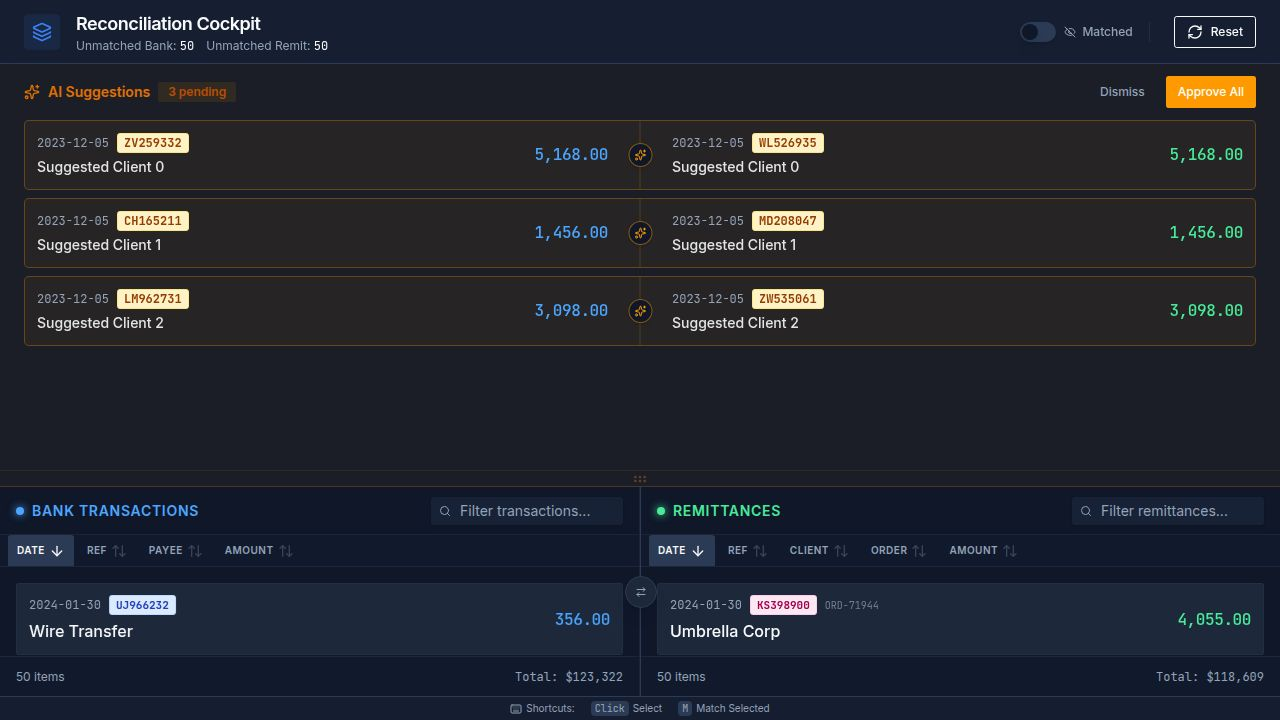
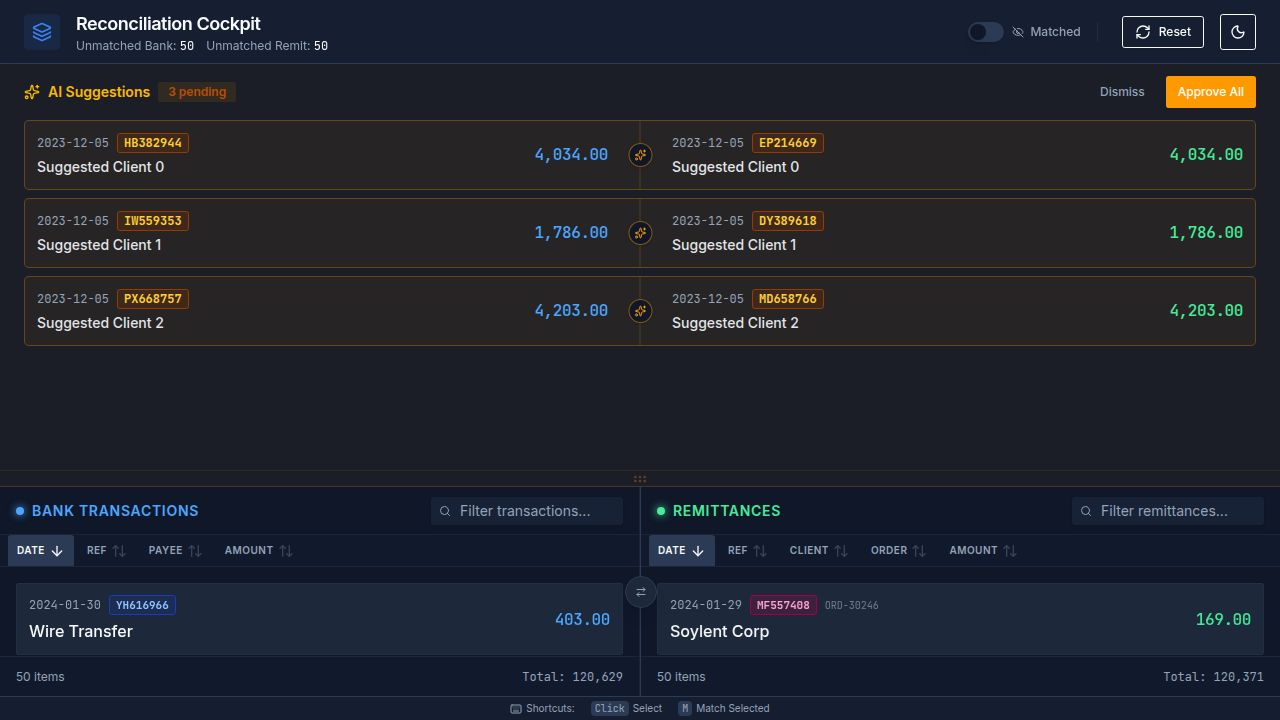
Add a theme toggle for switching between dark and light modes
Implement a ThemeProvider component to manage theme state, add a theme toggle button to the reconciliation page, and integrate theme switching functionality into the application.

Replit-Commit-Author: Agent
Replit-Commit-Session-Id: 44a04f64-e181-4394-bb19-a8a4b0096205
Replit-Commit-Checkpoint-Type: full_checkpoint
Replit-Commit-Event-Id: ad422c9d-6f79-45ca-961a-2f67ec774dfd
Replit-Commit-Screenshot-Url: https://storage.googleapis.com/screenshot-production-us-central1/7907d9d1-9fe0-46c0-b82b-14bfc55603c3/44a04f64-e181-4394-bb19-a8a4b0096205/SThMGMt
Replit-Helium-Checkpoint-Created: true

diff --git a/client/src/pages/reconciliation.tsx b/client/src/pages/reconciliation.tsx
@@ -1,6 +1,6 @@
 import React, { useState, useMemo, useEffect, useCallback } from 'react';
 import { motion, AnimatePresence } from 'framer-motion';
-import { Search, ArrowRightLeft, X, RefreshCw, Layers, Keyboard, Eye, EyeOff, CheckCircle2, ArrowUpDown, ArrowUp, ArrowDown, Sparkles, Check, ThumbsUp, ThumbsDown, XCircle, History, GripHorizontal } from 'lucide-react';
+import { Search, ArrowRightLeft, X, RefreshCw, Layers, Keyboard, Eye, EyeOff, CheckCircle2, ArrowUpDown, ArrowUp, ArrowDown, Sparkles, Check, ThumbsUp, ThumbsDown, XCircle, History, GripHorizontal, Moon, Sun } from 'lucide-react';
 import { generateMockData, BankTransaction, Remittance } from '../lib/mockData';
 import { cn } from '@/lib/utils';
 import { Button } from '@/components/ui/button';
@@ -10,6 +10,7 @@ import { Switch } from '@/components/ui/switch';
 import { Label } from '@/components/ui/label';
 import { Tooltip, TooltipContent, TooltipProvider, TooltipTrigger } from '@/components/ui/tooltip';
 import { DropdownMenu, DropdownMenuContent, DropdownMenuItem, DropdownMenuTrigger } from '@/components/ui/dropdown-menu';
+import { useTheme } from "@/components/theme-provider";
 
 // --- Types ---
 
@@ -343,6 +344,7 @@ const RemittanceRow = ({
 // --- Main Page ---
 
 export default function ReconciliationPage() {
+  const { theme, setTheme } = useTheme();
   const [bankTransactions, setBankTransactions] = useState<BankTransaction[]>([]);
   const [remittances, setRemittances] = useState<Remittance[]>([]);
   
@@ -654,6 +656,17 @@ export default function ReconciliationPage() {
              <Button variant="outline" size="sm" className="gap-2" onClick={() => window.location.reload()}>
                 <RefreshCw className="w-3 h-3" />
                 Reset
+             </Button>
+
+             <Button 
+                variant="outline" 
+                size="icon" 
+                className="h-9 w-9"
+                onClick={() => setTheme(theme === "dark" ? "light" : "dark")}
+             >
+                <Sun className="h-[1.2rem] w-[1.2rem] rotate-0 scale-100 transition-all dark:-rotate-90 dark:scale-0" />
+                <Moon className="absolute h-[1.2rem] w-[1.2rem] rotate-90 scale-0 transition-all dark:rotate-0 dark:scale-100" />
+                <span className="sr-only">Toggle theme</span>
              </Button>
         </div>
       </header>

diff --git a/client/src/components/theme-provider.tsx b/client/src/components/theme-provider.tsx
@@ -1,0 +1,72 @@
+import { createContext, useContext, useEffect, useState } from "react"
+
+type Theme = "dark" | "light" | "system"
+
+type ThemeProviderProps = {
+  children: React.ReactNode
+  defaultTheme?: Theme
+  storageKey?: string
+}
+
+type ThemeProviderState = {
+  theme: Theme
+  setTheme: (theme: Theme) => void
+}
+
+const initialState: ThemeProviderState = {
+  theme: "system",
+  setTheme: () => null,
+}
+
+const ThemeProviderContext = createContext<ThemeProviderState>(initialState)
+
+export function ThemeProvider({
+  children,
+  defaultTheme = "system",
+  storageKey = "vite-ui-theme",
+}: ThemeProviderProps) {
+  const [theme, setTheme] = useState<Theme>(
+    () => (localStorage.getItem(storageKey) as Theme) || defaultTheme
+  )
+
+  useEffect(() => {
+    const root = window.document.documentElement
+
+    root.classList.remove("light", "dark")
+
+    if (theme === "system") {
+      const systemTheme = window.matchMedia("(prefers-color-scheme: dark)")
+        .matches
+        ? "dark"
+        : "light"
+
+      root.classList.add(systemTheme)
+      return
+    }
+
+    root.classList.add(theme)
+  }, [theme])
+
+  const value = {
+    theme,
+    setTheme: (theme: Theme) => {
+      localStorage.setItem(storageKey, theme)
+      setTheme(theme)
+    },
+  }
+
+  return (
+    <ThemeProviderContext.Provider value={value}>
+      {children}
+    </ThemeProviderContext.Provider>
+  )
+}
+
+export const useTheme = () => {
+  const context = useContext(ThemeProviderContext)
+
+  if (context === undefined)
+    throw new Error("useTheme must be used within a ThemeProvider")
+
+  return context
+}

diff --git a/client/src/App.tsx b/client/src/App.tsx
@@ -3,6 +3,7 @@ import { queryClient } from "./lib/queryClient";
 import { QueryClientProvider } from "@tanstack/react-query";
 import { Toaster } from "@/components/ui/toaster";
 import { TooltipProvider } from "@/components/ui/tooltip";
+import { ThemeProvider } from "@/components/theme-provider";
 import NotFound from "@/pages/not-found";
 import ReconciliationPage from "@/pages/reconciliation";
 
@@ -18,10 +19,12 @@ function Router() {
 function App() {
   return (
     <QueryClientProvider client={queryClient}>
-      <TooltipProvider>
-        <Toaster />
-        <Router />
-      </TooltipProvider>
+      <ThemeProvider defaultTheme="dark" storageKey="vite-ui-theme">
+        <TooltipProvider>
+          <Toaster />
+          <Router />
+        </TooltipProvider>
+      </ThemeProvider>
     </QueryClientProvider>
   );
 }
